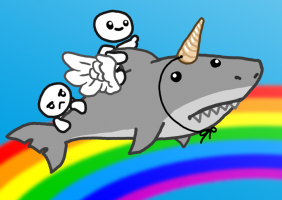
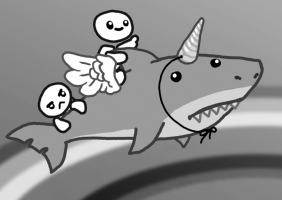
gjh

diff --git a/res/css/style.css b/res/css/style.css
@@ -140,6 +140,7 @@
 
 #gallery_upload {
 	float: right;
+	margin-bottom: 20px;
 	background-color: rgb(182, 182, 182);
 }
 
@@ -153,5 +154,16 @@
 	background-color: orange;
 	width: 20% !important;
 	margin: 15px 5% 0 5%;
+}
+
+#gallery_edit {
+	float: right;
+	padding-bottom: 10%;
+	background-color: rgb(182, 182, 182);
+}
+
+#edit_button {
+	background-color: rgb(140, 140, 233);
+	padding: 5px;
 }
 

diff --git a/res/js/upload_ajax.js b/res/js/upload_ajax.js
@@ -32,5 +32,4 @@ function drop(evt)
 	}
 }         
 
-  
 

diff --git a/res/js/js_scripts.js b/res/js/js_scripts.js
@@ -5,3 +5,4 @@
  */
 
 
+

diff --git a/gallery.php b/gallery.php
@@ -37,8 +37,12 @@
                 echo 'style="background-color: #EBEBEB; padding: 10px;"';
             };
             ?>>
-               <a href="<?php echo $bildinfo['dirname']."/".$bildinfo['basename'];?>">
-               <img src="<?php echo $bildinfo['dirname']."/".$bildinfo['basename'];?>" width="340" alt="Vorschau" /></a> 
+                <img src="<?php echo $bildinfo['dirname']."/".$bildinfo['basename'];?>" width="340" alt="Vorschau" /></a>
+                <form action='index.php' method='POST'>
+                    <input type="hidden" name="type" value="<?php echo  $bildinfo['type']; ?>">
+                    <input type="hidden" name="basename" value="<?php echo $bildinfo['basename']; ?>"> 
+                    <input id="edit_button"type="submit" value="edit <?php echo $bildinfo['filename'];?>" name="edit" />
+                </form>  
            </li>
            <?php
            $counter++;

diff --git a/config.php b/config.php
@@ -22,9 +22,9 @@ return (object) array(
     'class_login_input'  => 'col-xs-12 col-sm-12 col-md-8 col-lg-8',
     'class_login_button'  => 'col-md-offset-1 col-xs-10 col-sm-10 col-md-10 col-lg-10',
     'class_login_h2'    => 'col-xs-12 col-sm-12 col-md-12 col-lg-12',
-    'class_gallery'    => 'col-xs-8 col-sm-8 col-md-8 col-lg-8',
-    'class_gallery_upload'    => 'col-xs-4 col-sm-4 col-md-4 col-lg-4',
-    'class_gallery_noupload'    => 'col-xs-4 col-sm-4 col-md-4 col-lg-4',
+    'class_gallery'    => 'col-xs-6 col-sm-6 col-md-6 col-lg-6',
+    'class_gallery_upload'    => 'col-xs-6 col-sm-6 col-md-6 col-lg-6',
+    'class_gallery_noupload'    => 'col-xs-6 col-sm-6 col-md-6 col-lg-6',
     'class_uploaded_gallery'  => 'col-xs-12 col-sm-12 col-md-12 col-lg-12',
     );
 

diff --git a/file_edit.php b/file_edit.php
@@ -1,0 +1,25 @@
+<div id="gallery_edit" class="<?php echo $configs->class_gallery_upload;?>">
+<h1 class="text-center">Edit</h1>
+
+<button type="button" onclick="">Graustufen</button>
+
+<?php
+
+
+    $info = $bildinfo;
+    ?>
+    <img src="<?php echo $info['dirname']."/".$info['basename'];?>" width="200" alt="Vorschau" /></a>
+    <?php
+    function greyscale()
+    {
+        $image_edit = imagecreatefrompng('uploaded_files/moewe.png');
+        imagefilter($image_edit, IMG_FILTER_GRAYSCALE);
+        imagepng($image_edit, 'uploaded_files/new_'.$image['name'].$image['type']);
+
+        $ordner = "uploaded_files";
+        $bildinfo = pathinfo($ordner."/".$image_edit);
+        imagedestroy($image_edit);
+    }
+    
+?>
+</div>

diff --git a/content.php b/content.php
@@ -50,7 +50,7 @@ elseif((isset($_SESSION["menu"])&&$_SESSION["menu"]=="galerie_nologin")||(isset(
 	echo '
 	<h1 class="text-center">Upload</h1>
 	<div id="gallery_nologin" class="'.$configs->class_gallery_noupload.'">
-	<h2 class="text-center">Nur angemeldete User können Bilder hinzufügen.</h2>
+	<h2 class="text-center">Nur angemeldete User können Bilder hinzufügen und bearbeiten.</h2>
 	</div>
 	';
 }

diff --git a/upload.php b/upload.php
@@ -58,4 +58,8 @@ if (isset($_FILES['userfile'])) {
     include("dropbox.php");
 ?>
 </div>
+<?php
+    include("file_edit.php");
+?>
+
 
